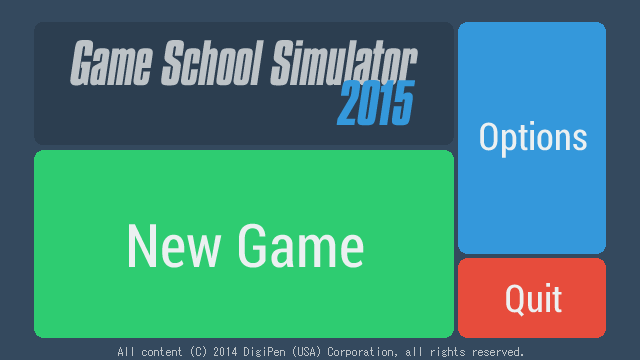
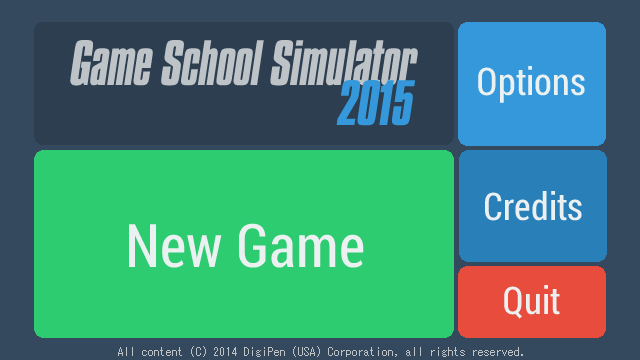
fixed the new UI problems through sheer brute force!

Changed region(s): [[0.7188, 0.3361, 0.9688, 0.7639], [0.75, 0.1833, 0.9375, 0.275], [0.7812, 0.7944, 0.875, 0.8861]]

diff --git a/Game School Simulator 2015/main.c b/Game School Simulator 2015/main.c
@@ -162,15 +162,15 @@ void startNewGame(GAME *game) {
   // news feed
   space_addEntity(uiSpace, arch_newsFeed, "newsFeed");
 
-  /*
+  
   // UI Bar
-  vec3_set(&position, 0, 165, 0);
+  vec3_set(&position, 0, 166, 0);
   vec2_set(&dimensions, 640, 29);
   genericSprite_createBlank(uiSpace, &position, &dimensions, &colors[C_TURQUOISE_LIGHT], "uiBar");
   
   // Menu Button
   vec3_set(&position, -306, 166, 0);
-  createCustomButton(NULL, NULL, NULL, NULL, NULL, uiSpace, &position, "menuButton", 1, 1, true, "ui/menu", NULL, &color, false, NULL, NULL, NULL, TEXTALIGN_CENTER, TEXTALIGN_CENTER);
+  createCustomButton(NULL, NULL, NULL, NULL, NULL, uiSpace, &position, "menuButton", 1, 1, true, "ui/menu_alt", NULL, &color, false, NULL, NULL, NULL, TEXTALIGN_CENTER, TEXTALIGN_CENTER);
 
   // Build Button
   vec3_set(&position, -271, 166, 0);
@@ -188,7 +188,7 @@ void startNewGame(GAME *game) {
   vec3_set(&position, -180, 166, 0);
   createCustomButton(NULL, NULL, NULL, NULL, NULL, uiSpace, &position, "pauseButton", 1, 1, true, "ui/pause", NULL, &color, false, NULL, NULL, NULL, TEXTALIGN_CENTER, TEXTALIGN_CENTER);
 
-  */
+  
   /* custom build button
   vec3_set(&position, 0, 0, 0);
   createCustomButton(NULL, custom_onHover, NULL, custom_onExit, NULL, 

diff --git a/NekoEngine/sprite.c b/NekoEngine/sprite.c
@@ -119,6 +119,8 @@ void comp_sprite_draw(COMPONENT *self, void *event) {
   v = comData->manual.enabled ? comData->manual.v : sprite->v;
 
   AEGfxTextureSet(texture->data, (float)((float)texture->width * u), (float)((float)texture->height * v));
+  transform.m02 = floorf(transform.m02 + 0.5f);
+  transform.m12 = floorf(transform.m12 + 0.5f);
   AEGfxSetTransform(transform.m);
   spriteWidth = comData->manual.enabled ? comData->manual.width : (float)sprite->width;
   spriteHeight = comData->manual.enabled ? comData->manual.height : (float)sprite->height;
